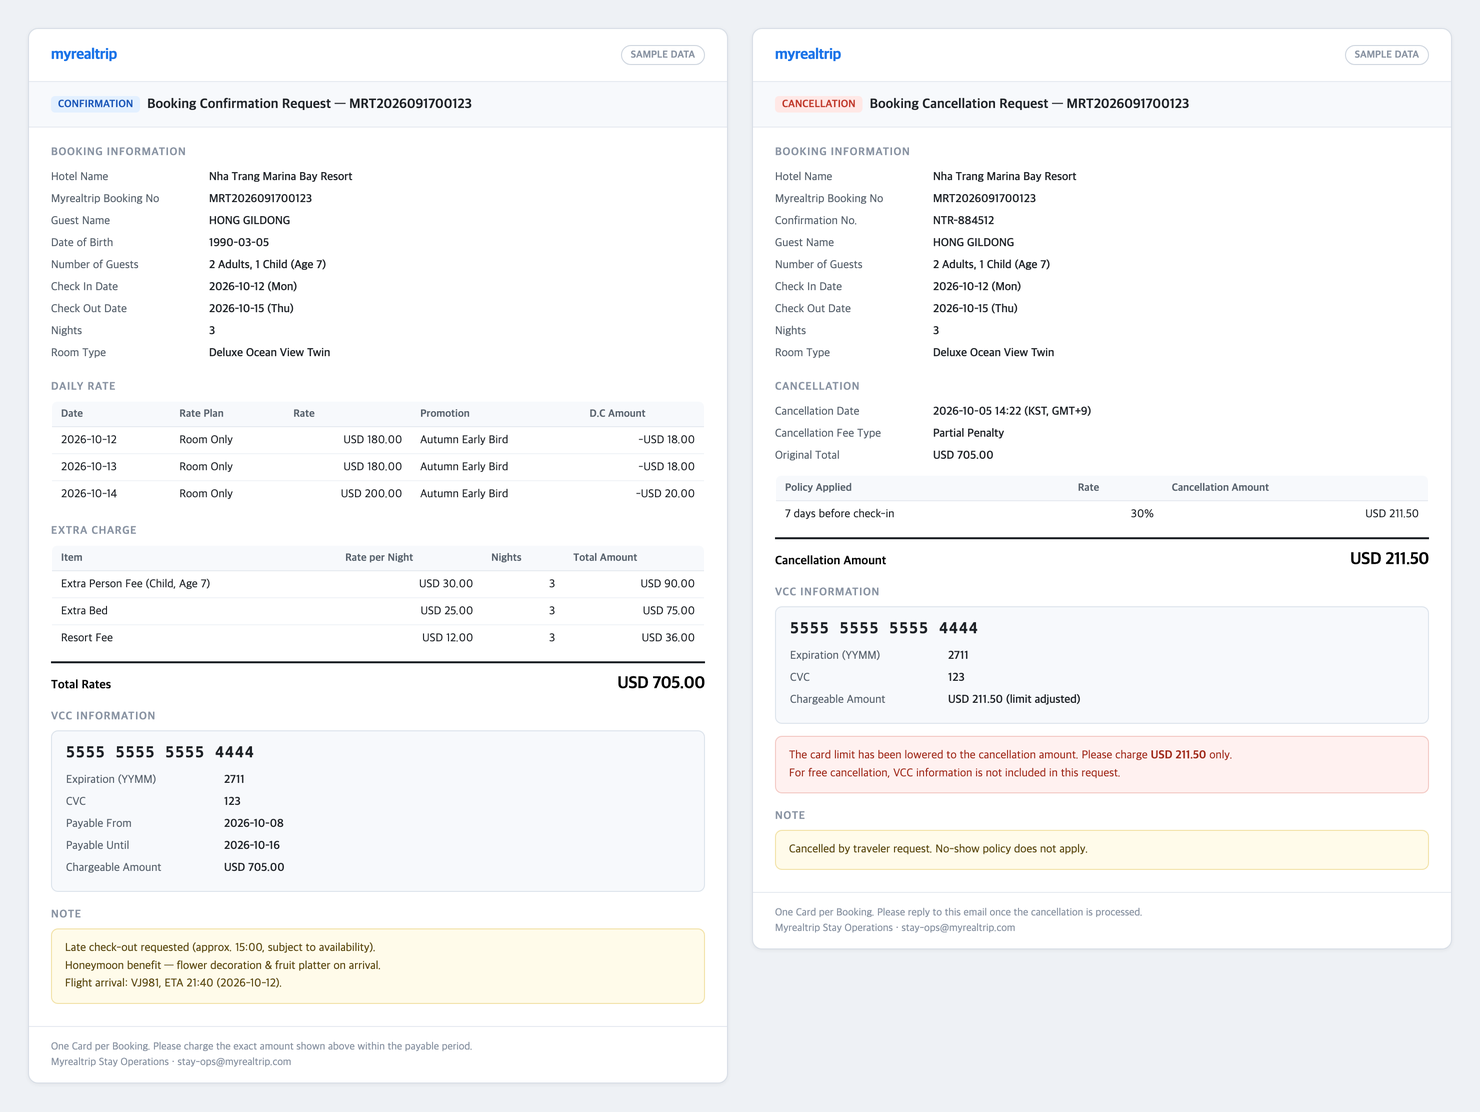
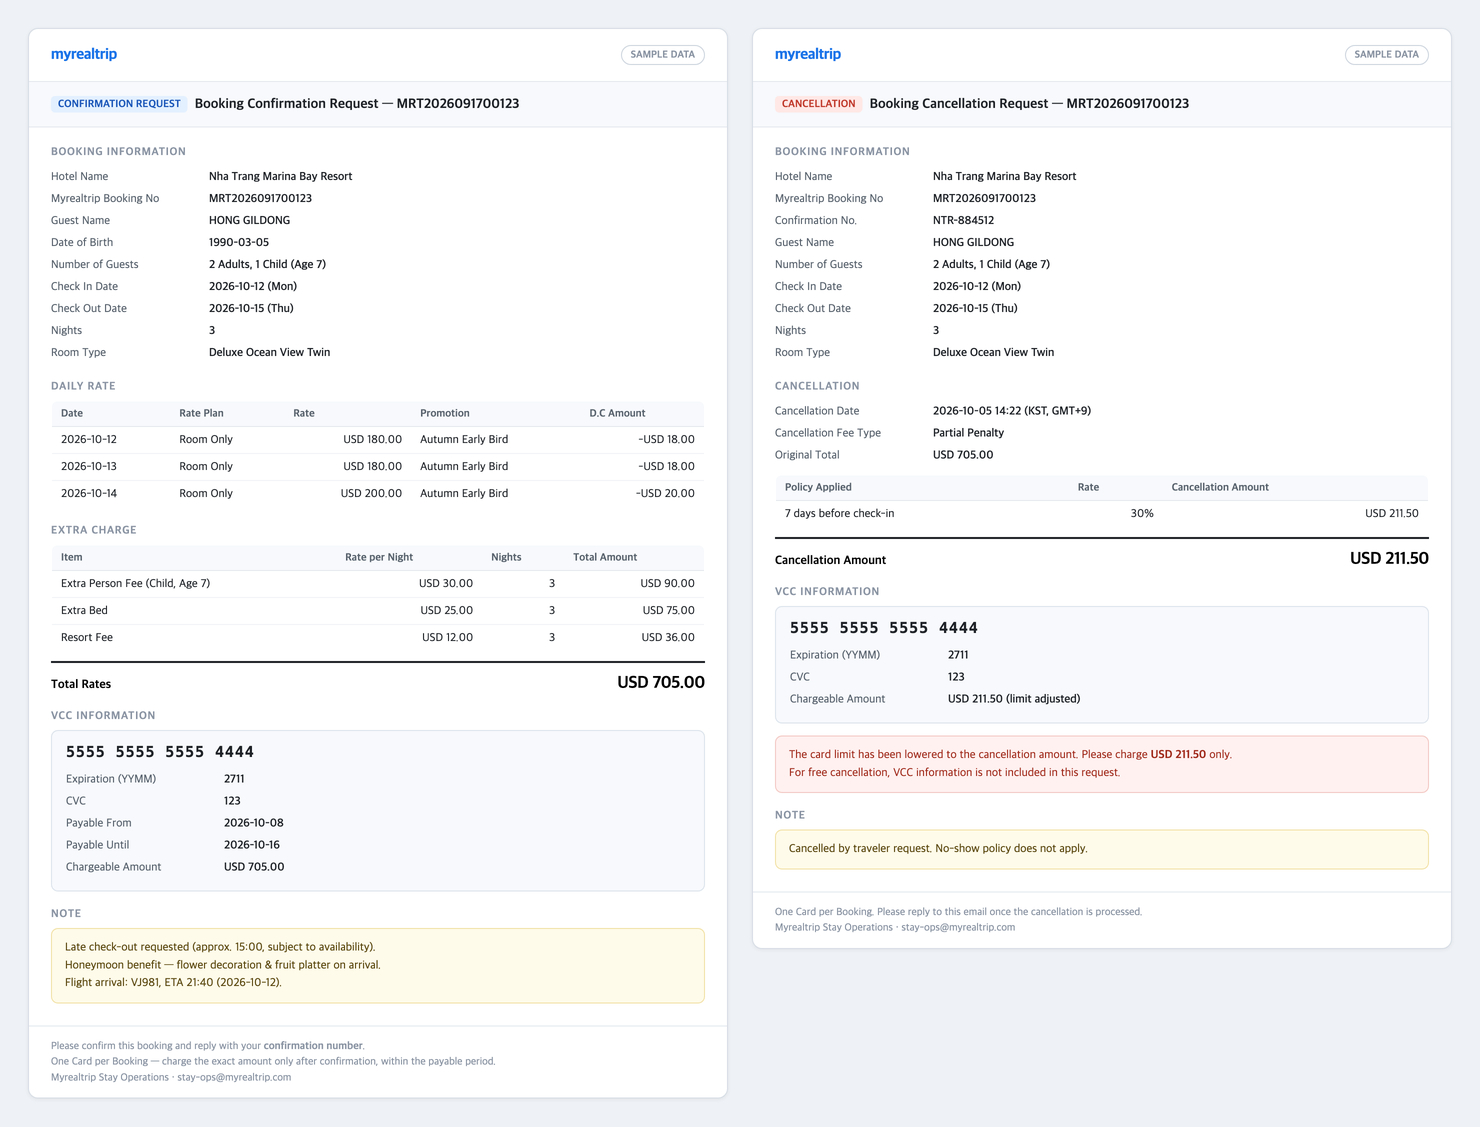
Correct voucher mail send triggers for domestic and overseas

diff --git a/portfolio/src/content/projects/mrt-vcc-voucher.md b/portfolio/src/content/projects/mrt-vcc-voucher.md
@@ -9,10 +9,11 @@ order: 9
 
 ```mermaid
 flowchart LR
-    A["예약 확정"] --> B["VCC 발급 정보 연계<br/>활성화 일자 관리"]
-    B --> C["바우처 메일 자동 발송<br/>국내/해외 템플릿"]
-    C --> D["파트너"]
-    D --> E["VCC로 결제 대금 수취"]
+    A["해외 — 예약 요청 시"] --> C["바우처 메일 자동 발송"]
+    B["국내 — 예약 확정 시"] --> C
+    C --> D["VCC 발급 정보<br/>또는 계좌 정산 정보"]
+    D --> E["파트너"]
+    E --> F["호텔 확정번호 회신<br/>결제 대금 수취"]
 ```
 
 ## 배경
@@ -23,13 +24,13 @@ flowchart LR
 ## 주요 작업
 
 - **VCC 예약/환불 연동** — 예약 생성 시 카드 발급 정보 연계, 결제 가능 기간 관리, 환불 시 처리 흐름 구현
-- **바우처 메일 자동 발송** — 숙소·투숙 정보와 일자별 요금·추가 요금 내역, VCC 결제 정보를 채워 예약 확정·취소 시점에 자동 발송
+- **바우처 메일 자동 발송** — 숙소·투숙 정보와 일자별 요금·추가 요금 내역, 결제 정보를 채워 자동 발송. **해외는 예약 요청 시점에 호텔로 확인 요청을, 국내는 예약 확정 시점에 안내를** 보내는 구조라 발송 트리거가 갈림
 
-![해외 파트너 대상 영문 메일 — 예약 확정 요청(좌)과 취소 요청(우). 일자별 요금·추가 요금·VCC 정보가 자동으로 채워진다 *(예시 데이터)*](/portfolio/images/vcc-mail-overseas.png)
+![해외 파트너 대상 영문 메일 — 예약 확인 요청(좌)과 취소 요청(우). 호텔이 확정번호를 회신하면 그 값이 취소 요청서에 자동 반영된다 *(예시 데이터)*](/portfolio/images/vcc-mail-overseas.png)
 
 - **대금 지급 방식에 따라 템플릿을 분기** — VCC·오픈카드·계좌지급 3종으로 나누고, 국내/해외를 각각 한글·영문으로 분리. 숙소별 영문 메일 발송 여부를 매니저가 설정하도록 어드민 기능 추가
 
-![국내 파트너 대상 한글 메일 — 계좌지급 숙소는 VCC 대신 정산 정보가 들어간다 *(예시 데이터)*](/portfolio/images/vcc-mail-domestic.png)
+![국내 파트너 대상 한글 메일 — 예약 확정 시점에 발송되며, 계좌지급 숙소는 VCC 대신 정산 정보가 들어간다 *(예시 데이터)*](/portfolio/images/vcc-mail-domestic.png)
 
 - **취소 시 위약 유형별 분기** — 전액 위약이면 기존 카드를 그대로, 일부 위약이면 한도를 위약금만큼 낮춰서, 무료 취소면 카드 정보 없이 발송. 확정 시 받아둔 호텔 확정번호를 취소 요청서에 자동 반영
 - 예약 시 추가 인원 정보 저장, 외화 스냅샷 기준 금액 표기 등 정확성 개선
